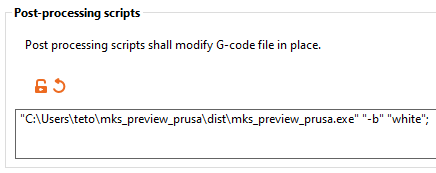
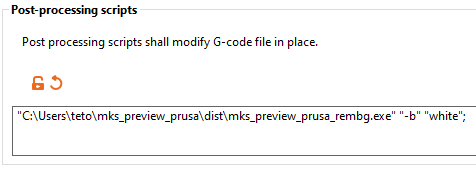
update reamde

Changed region(s): [[0.0, 0.0296, 1.0, 0.9763], [0.0596, 0.4438, 0.1491, 0.5621]]

diff --git a/README.md b/README.md
@@ -5,6 +5,9 @@ with MKS compatible gcode.
 
 It is not like it was really well tested, but it works with Prusa Slicer 2.5.2 and Flying Bear Ghost 6.
 
+And now with `rembg` inside, exe got really fat. 
+Is replacing background with configurable solid color required - no. Will I add it - yes, just for fun.
+
 ## Usage
 
 ### Printer settings
@@ -29,3 +32,10 @@ Use `-b <color>` or `--bg-color <color>` to specify background color for preview
 Demo:
 
 ![Remove background demo](https://github.com/vlad-d-markin/mks_preview_prusa/raw/main/screenshots/remove_bg_demo.png)
+
+## Development how-to's
+Building exe:
+```
+pyinstaller --onefile mks_preview_prusa.py
+pyinstaller --onefile mks_preview_prusa_rembg.py
+```
